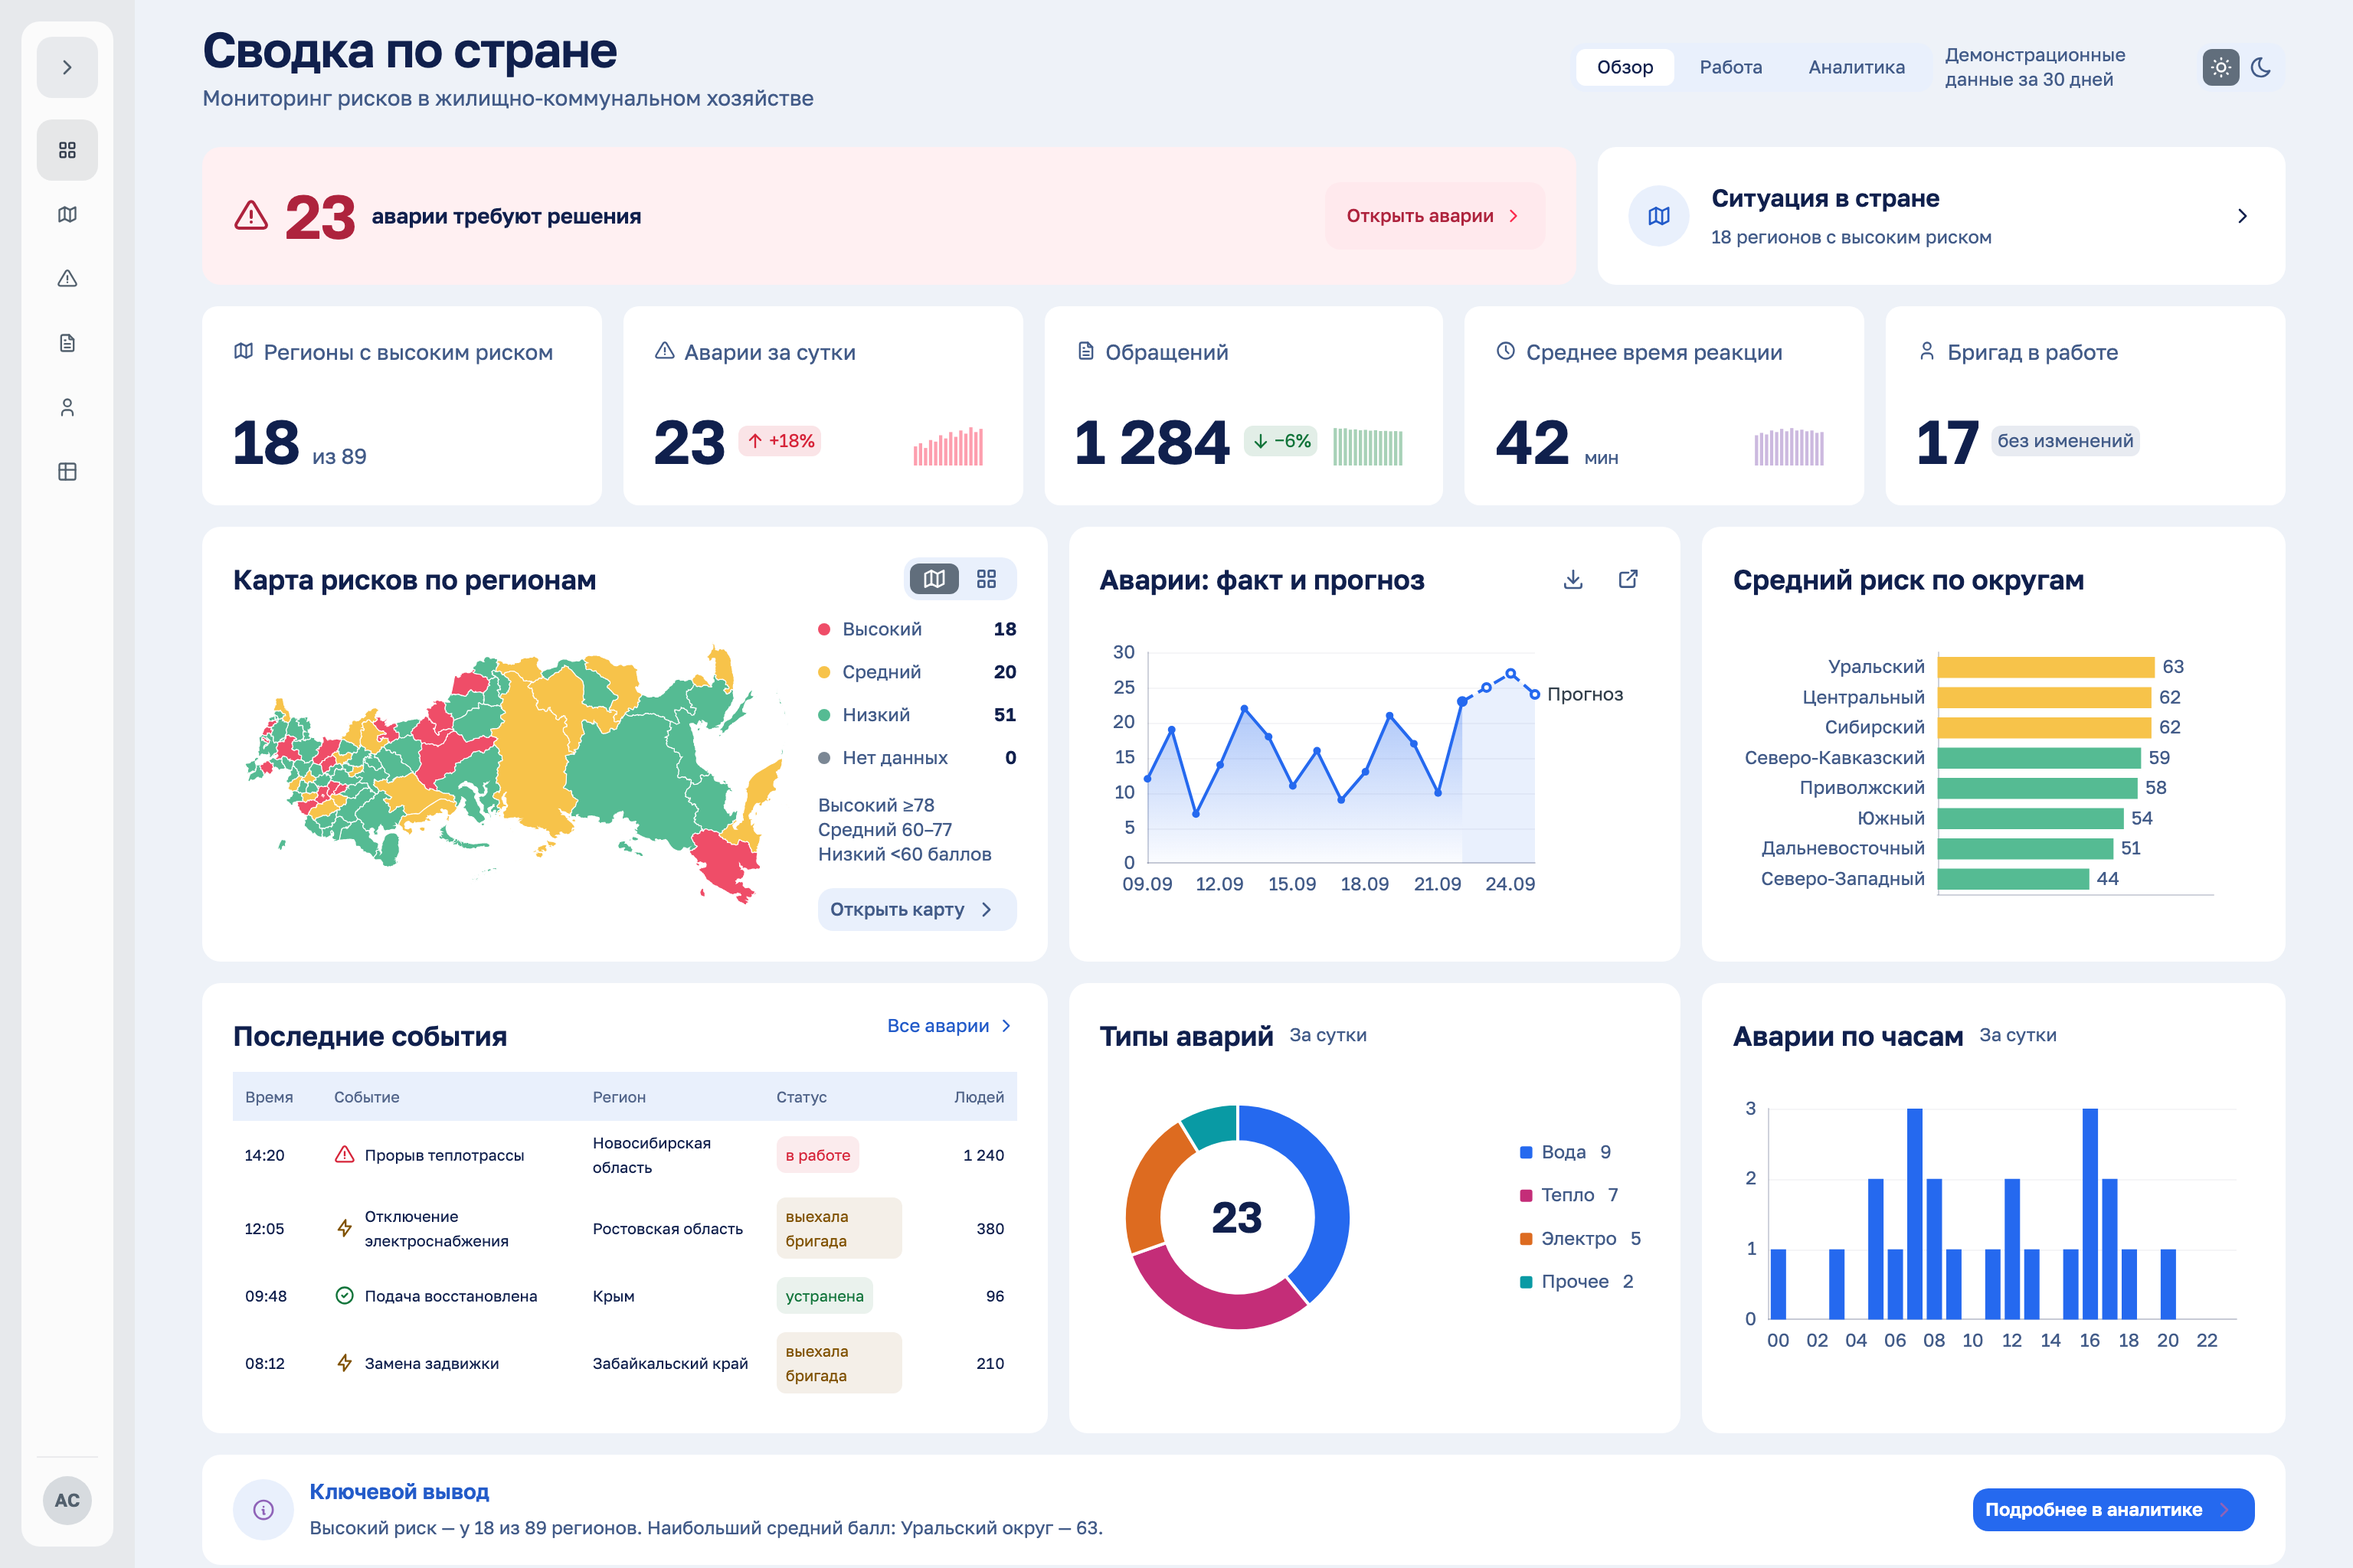
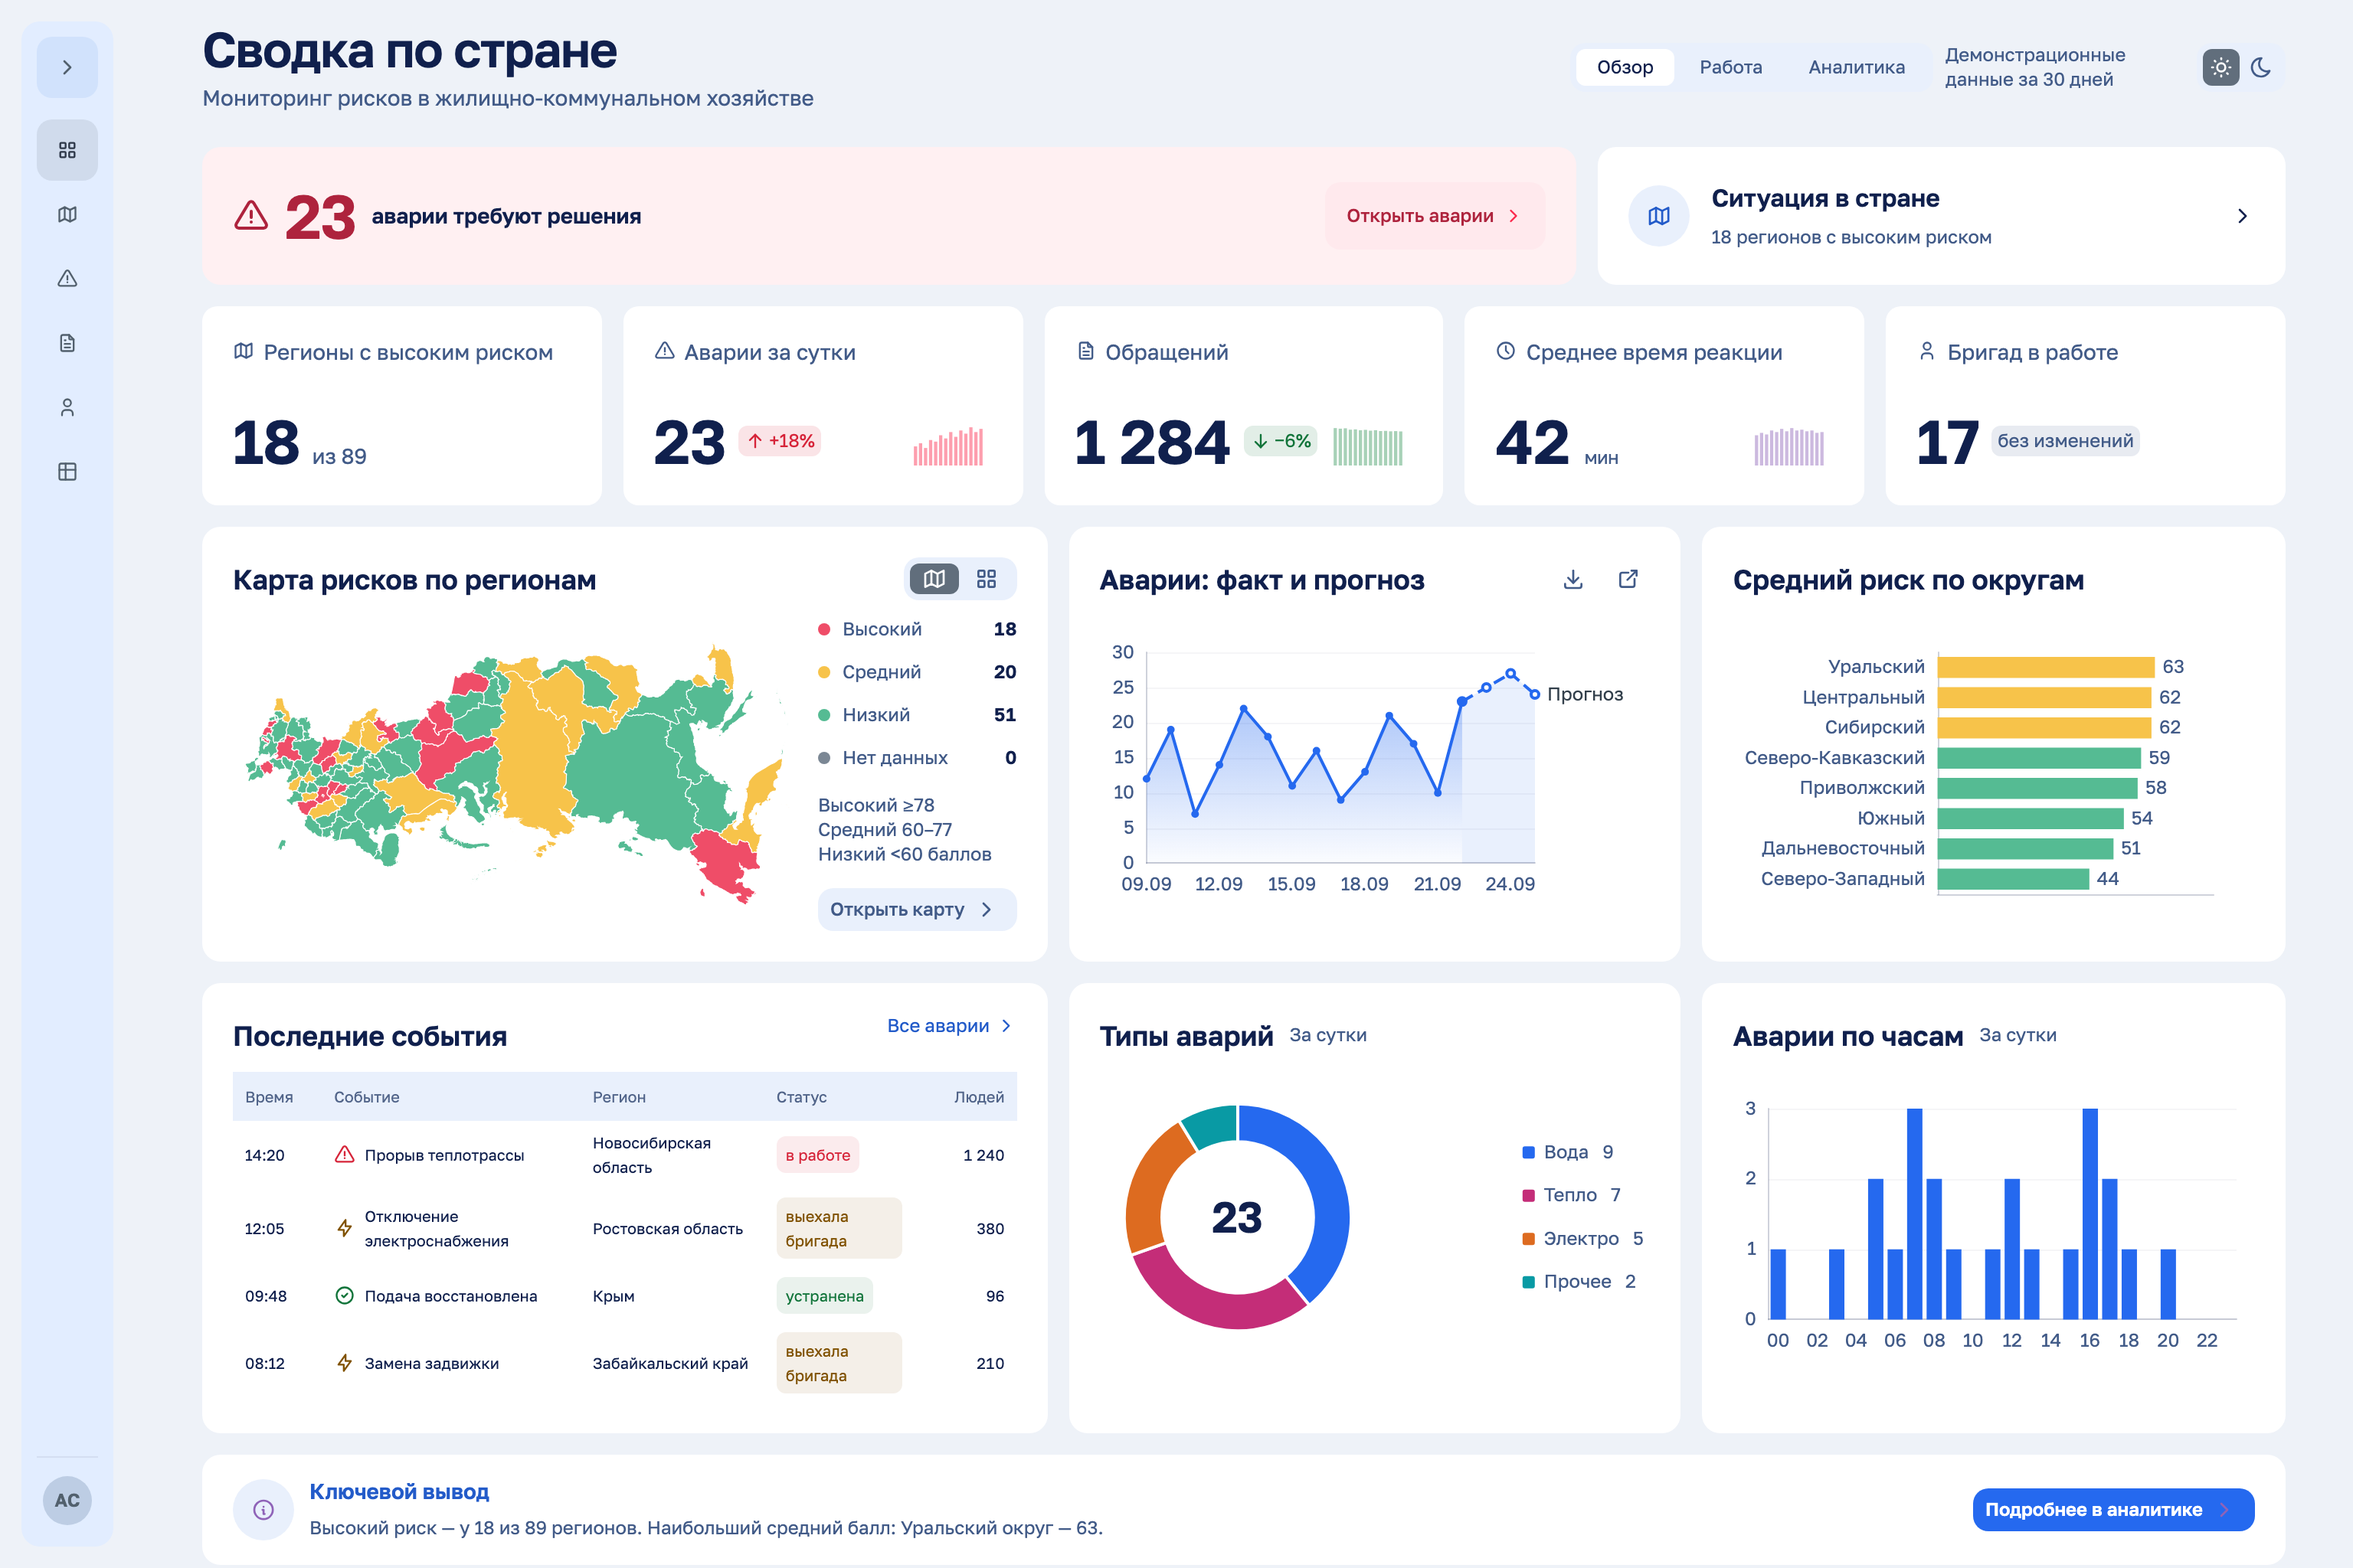
Tint the light sidebar blue per selected direction

Changed region(s): [[0.0, 0.0, 0.0625, 1.0], [0.6562, 0.7188, 0.6875, 0.8438], [0.4688, 0.4375, 0.5, 0.5]]

diff --git a/css/tokens.semantic.css b/css/tokens.semantic.css
@@ -662,7 +662,7 @@
   .dk-root { --duration-fast: 0s; --duration-base: 0s; }
 }
 
-/* Навигация сохраняет предыдущую палитру, пока дизайн сайдбара не выбран. */
+/* Отдельная палитра навигации: светло-голубая в светлой теме. */
 .dk-root[data-theme="dark"], .dk-root:not([data-theme]) {
   --nav-bg: var(--c-board-dark);
   --nav-surface: var(--c-widget-1-dark);
@@ -673,7 +673,7 @@
   --nav-ink-3: var(--c-gray-300);
   --nav-rule: var(--veil-light-07);
   --nav-brand: var(--c-nav-accent-blue);
-  --nav-brand-ink: var(--c-nav-widget-1-light);
+  --nav-brand-ink: var(--c-widget-1-light);
   --nav-link: color-mix(in srgb, var(--nav-brand) 55%, var(--c-text-main-dark));
   --nav-control-on: var(--nav-ink-3);
   --nav-control-on-hover: color-mix(in srgb, var(--nav-ink-3) 80%, var(--nav-ink-2));
@@ -682,16 +682,16 @@
   --nav-edge-float: var(--veil-light-09);
 }
 .dk-root[data-theme="light"] {
-  --nav-bg: color-mix(in srgb, var(--c-nav-board-light) 90%, var(--c-gray-300));
+  --nav-bg: var(--c-nav-board-light);
   --nav-surface: var(--c-nav-widget-1-light);
-  --nav-surface-2: color-mix(in srgb, var(--c-nav-widget-2-light) 91%, var(--c-gray-300));
+  --nav-surface-2: var(--c-nav-widget-2-light);
   --nav-surface-3: color-mix(in srgb, var(--c-nav-widget-2-light) 77%, var(--c-gray-300));
   --nav-ink: var(--c-nav-text-main-light);
   --nav-ink-2: var(--c-gray-500);
   --nav-ink-3: var(--c-gray-400);
   --nav-rule: var(--veil-dark-08);
   --nav-brand: var(--c-nav-accent-blue);
-  --nav-brand-ink: var(--c-nav-widget-1-light);
+  --nav-brand-ink: var(--c-widget-1-light);
   --nav-link: color-mix(in srgb, var(--nav-brand) 82%, var(--c-board-dark));
   --nav-control-on: var(--nav-ink-3);
   --nav-control-on-hover: color-mix(in srgb, var(--nav-ink-3) 80%, var(--nav-ink));

diff --git a/css/tokens.primitives.css b/css/tokens.primitives.css
@@ -565,11 +565,11 @@
   --face-mono: ui-monospace, "SF Mono", Menlo, Consolas, monospace;
 }
 
-/* Замороженная палитра сайдбара: по просьбе пользователя он не меняется. */
+/* Палитра сайдбара: светло-голубая по выбору пользователя 09.10. */
 .dk-root {
-  --c-nav-board-light: #F3F4F6;
-  --c-nav-widget-1-light: #FBFBFB;
-  --c-nav-widget-2-light: #F3F4F6;
+  --c-nav-board-light: #EEF2F8;
+  --c-nav-widget-1-light: #E2EDFF;
+  --c-nav-widget-2-light: #D1E2FC;
   --c-nav-text-main-light: #2D3748;
   --c-nav-accent-blue: #126CF1;
   --c-navy-600: #425B88;

diff --git a/css/chrome.css b/css/chrome.css
@@ -685,7 +685,7 @@
   .dk-tabbar__item > span { max-width: none; white-space: nowrap; overflow-wrap: normal; }
 }
 
-/* Сайдбар сохранён при смене палитры рабочей области (09.10). */
+/* Независимые цвета сайдбара: светло-голубой вариант выбран 09.10. */
 .dk-side {
   --bg: var(--nav-bg);
   --surface: var(--nav-surface);

diff --git a/DECISIONS.md b/DECISIONS.md
@@ -1187,3 +1187,10 @@ UIUX.md и проектный JSON связывают правила кита с
 прежние семантические заливки. Эти токены предназначены для крупных областей;
 не использовать их вместо контрастного текста и небольших статусных значков.
 Числа, названия категорий и пороги обязательны: цвет не единственный носитель смысла.
+
+## 09.10.2026 — голубой сайдбар
+
+После просмотра сводки пользователь попросил сделать сайдбар голубым.
+Предыдущее ограничение сохранять его цвета отменено: светлая панель #E2EDFF,
+подложки управления #D1E2FC, внешний фон совпадает с рабочей областью.
+Геометрия, навигация и тёмная тема сохранены. Декоративные рамки не добавлены.
